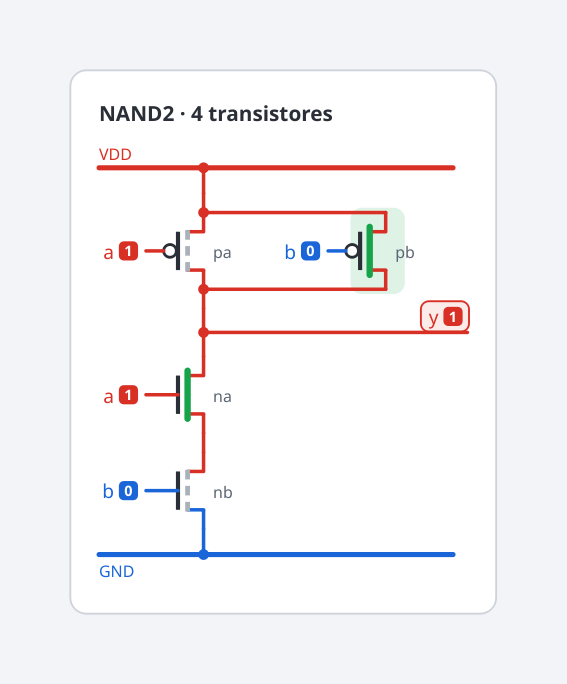
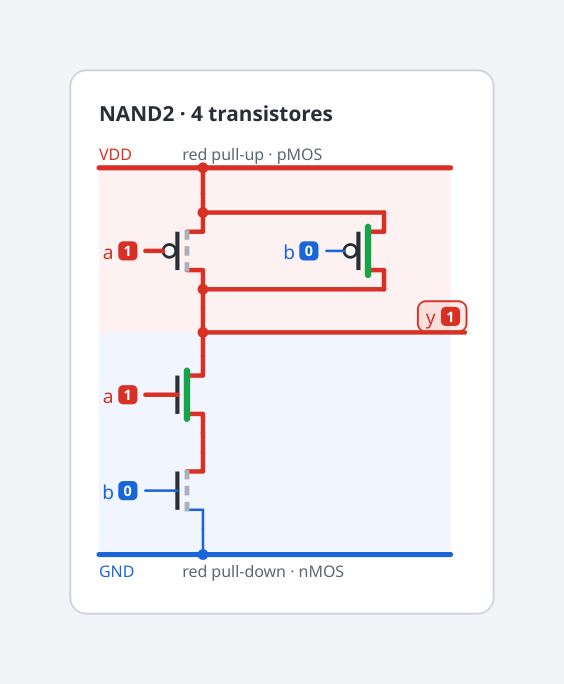
Diapositivas con las capturas nuevas y guion de la exposición (#57)
Capturas de las vistas nuevas en las diapositivas, diapositiva «Cómo se usa» y guion de la exposición en seis bloques con sus demostraciones en vivo. Cifras al día: 613 pruebas.

diff --git a/docs/exposicion/guion.md b/docs/exposicion/guion.md
@@ -1,0 +1,279 @@
+# Guion de la exposición
+
+Unos 10 minutos, seis bloques; cada expositor habla una sola vez. Las diapositivas
+son apoyo: en cada bloque, quien expone muestra en vivo cómo se usa el programa.
+
+## Orden
+
+| Bloque | Expositor | Tema | Diapositivas | Tiempo |
+|---|---|---|---|---|
+| 1 | Héctor | Introducción y cómo se usa | 1–4 | 1 min 25 s |
+| 2 | Daniel | Definiciones matemáticas | 5–8 | 1 min 45 s |
+| 3 | Jairo | Capas L0 y L1: transistores y celdas | 9–12 | 1 min 40 s |
+| 4 | Fabrizzio | Capas L2 y L3: bloques y FPU | 13–17 | 1 min 55 s |
+| 5 | Yenny | Métricas y prueba integral | 18–20 | 1 min 35 s |
+| 6 | Ronald | Casos especiales, verificación y cierre | 21–23 | 1 min 30 s |
+
+La pauta del curso pide que todo el grupo exponga, por eso Ronald tiene el bloque 6. Si
+al final no expone, Yenny dice también el bloque 6 (seguido del suyo) y responde sus
+preguntas.
+
+## Antes de exponer (5 minutos antes, en la computadora del aula)
+
+1. Abrir el programa: `uv run transim gui` (F11 lo pone en pantalla completa).
+2. En Operación, calcular 1 ÷ 3 (prepara la unidad de división, que es la más grande).
+3. Luego calcular 1 + 1. NO calcular 1.5 + 2.25 antes: si se repite la misma suma, el
+   acarreo no tiene nada que mostrar porque nada cambia.
+4. Abrir una vez Transistores (Ctrl+3) › panel ☰ › Biblioteca › XOR2, y volver a
+   Operación (Ctrl+1).
+5. Abrir las diapositivas en otra ventana; se pasa de una a otra con Alt+Tab.
+
+Si algo del programa falla en vivo: no se improvisa, se sigue con la diapositiva, que
+tiene la misma captura.
+
+## Bloque 1 · Héctor Flores · Introducción y cómo se usa · 1 min 25 s
+
+### Diapositiva 1 · Presentación
+
+Buenos días. Somos el grupo de TranSim754. Construimos una unidad de punto flotante
+IEEE 754 que no calcula con las operaciones de Python, sino con transistores nMOS y
+pMOS simulados uno por uno. Un ejemplo nos acompañará toda la exposición: 1.5 más 2.25
+da 3.75, que en 32 bits se escribe 0x40700000.
+
+### Diapositiva 2 · El reto
+
+El enunciado pedía emular al menos 100 transistores y, con ellos, sumar, restar,
+multiplicar y dividir en IEEE 754. Solo nuestra unidad de suma tiene 13 974
+transistores; la de multiplicación, 29 966; la de división, 40 048; y la máquina
+completa, unos 100 600. Hacemos las cuatro operaciones en 32 y en 16 bits.
+
+### Diapositiva 3 · Cómo se usa · *en vivo*
+
+El programa tiene cuatro pestañas, y cada una es una forma de mirar la misma FPU.
+
+> **En vivo:** Pasar por las pestañas con Ctrl+1, Ctrl+2, Ctrl+3 y Ctrl+4 mientras se dice:
+
+Operación es la FPU vista desde afuera: se escriben dos números y se calcula.
+Recorrido muestra esa misma operación paso a paso, en las etapas del hardware.
+Transistores la abre por dentro, desde el plano del chip hasta cada transistor.
+Y Programa la pone dentro de una CPU pequeña que ejecuta instrucciones.
+F1 abre una guía rápida con todos los controles.
+
+> **En vivo:** Volver a Operación con Ctrl+1.
+
+### Diapositiva 4 · Arquitectura por capas
+
+Por dentro, el sistema tiene seis capas, y cada una se construye solo con la de abajo:
+L0, el transistor; L1, las compuertas; L2, los bloques aritméticos; L3, la unidad de
+punto flotante; L4, la CPU; y L5, la interfaz. Daniel explica la matemática.
+
+## Bloque 2 · Daniel Alcantara · Definiciones matemáticas · 1 min 45 s
+
+### Diapositiva 5 · IEEE 754 binary32
+
+Un número binary32 usa 32 bits: 1 de signo, 8 de exponente y 23 de fracción. Su valor
+es menos uno elevado a s, por 1 punto f, por 2 elevado a E menos 127; ese 127 se llama
+sesgo. Por ejemplo, 1.5 es 0x3FC00000: E vale 127, así que el exponente real es 0, y
+1 punto f es 1.1 en binario. Si E vale 0, el número es cero o subnormal; si vale 255,
+es infinito o NaN.
+
+### Diapositiva 6 · La suma en cinco pasos
+
+La suma tiene cinco pasos: restar exponentes, alinear la mantisa menor, sumar,
+normalizar y redondear. Con 1.5 más 2.25: la diferencia de exponentes es 1; la mantisa
+1.1 se corre una posición y queda 0.11; sumada a 1.001 da 1.111; y 1.111 por 2 elevado
+a 1 es 3.75.
+
+### Diapositiva 7 · Redondeo y flags
+
+Al alinear se pierden bits, y el hardware guarda tres de ellos: G, R y S. Se suma 1 al
+resultado si G vale 1 y además R, S o el último bit valen 1; en un empate exacto se
+elige el vecino par. Así el error nunca pasa de medio ulp. Se calculan los cinco flags
+del estándar: operación inválida, división por cero, overflow, underflow e inexacto.
+
+### Diapositiva 8 · En el programa · *en vivo · Operación*
+
+Veamos la suma en el programa.
+
+> **En vivo:** Escribir 1.5 en a y 2.25 en b, dejar + y binary32, pulsar «Calcular en transistores».
+
+El resultado es 0x40700000, 3.75, y el programa confirma que coincide con el modelo de
+referencia, bit a bit y en los flags. Aquí abajo están los 32 bits: el exponente 128
+significa 2 elevado a 1, y la fracción 111 da 1.875; 1.875 por 2 es 3.75.
+
+> **En vivo:** Hacer clic en el bit de signo de b.
+
+Si hago clic en un bit, se invierte y la FPU recalcula: ahora b vale menos 2.25 y el
+resultado es menos 0.75.
+
+> **En vivo:** Volver a hacer clic en el mismo bit (regresa a 1.5 + 2.25). No calcular nada más.
+
+Jairo sigue con los transistores.
+
+## Bloque 3 · Jairo Huamán · Capas L0 y L1 · 1 min 40 s
+
+### Diapositiva 9 · L0: el transistor es un interruptor
+
+En L0, un nMOS conduce cuando su compuerta vale 1 y un pMOS cuando vale 0. Cada nodo
+tiene un valor, que puede ser 0, 1, X o Z, y una fuerza: la de los rieles, la de las
+entradas o la de una carga retenida. Gana la fuerza mayor, y si chocan un 0 y un 1 de
+la misma fuerza, el nodo queda en X. Para ir rápido, el motor calcula la tabla de
+verdad de cada celda una sola vez, desde sus transistores, y la reutiliza.
+
+### Diapositiva 10 · L1: compuertas CMOS
+
+Con esos interruptores se arman las compuertas. La NAND usa 4 transistores: dos pMOS
+en paralelo hacia VDD y dos nMOS en serie hacia tierra. La XOR usa 12, el flip-flop D
+22 y el sumador completo 28, con el diseño espejo.
+
+### Diapositiva 11 · De transistores a compuertas · *en vivo · Transistores › Biblioteca*
+
+> **En vivo:** Ctrl+3, panel ☰, pestaña Biblioteca, elegir XOR2.
+
+En el programa, cada celda se ve primero como compuertas. El programa las deduce de los
+transistores: nMOS en serie es un AND, en paralelo es un OR, y la salida sale negada.
+Así, la XOR resulta ser dos inversores y una compuerta AND-OR invertida. Rojo es 1 y
+azul es 0.
+
+> **En vivo:** Hacer clic en la entrada a.
+
+Si cambio una entrada, todo se recalcula y la salida cambia.
+
+### Diapositiva 12 · Esquema y silicio · *en vivo*
+
+> **En vivo:** Alt+E (vista Transistores).
+
+Esta es la misma celda en transistores: arriba la red de pMOS, abajo la de nMOS. El
+canal en verde es el que conduce.
+
+> **En vivo:** Alt+S (vista Silicio) y pasar el ratón por un transistor.
+
+Y así se fabricaría: difusión p en ocre, difusión n en verde y polisilicio en violeta
+cruzando las dos. Al pasar el ratón por un transistor se resalta en los dos dibujos. Es
+un dibujo ilustrativo, no a escala. Fabrizzio sigue con los bloques.
+
+## Bloque 4 · Fabrizzio Ancajima · Capas L2 y L3 · 1 min 55 s
+
+### Diapositiva 13 · L2: sumadores y restador
+
+En L2, el sumador ripple-carry encadena un sumador completo por bit: a 32 bits son 896
+transistores y 32 niveles de retardo. El carry-lookahead baja a 19 niveles, un 40 %
+menos, pero usa 3 526 transistores, casi cuatro veces más. Para restar se invierte b
+con XOR y se suma 1: complemento a 2.
+
+### Diapositiva 14 · L2: alinear y normalizar
+
+El desplazador barrel mueve 1, 2, 4, 8 o 16 posiciones en cada una de sus 5 etapas, y
+los bits que salen por la derecha forman el bit sticky. El contador de ceros a la
+izquierda es un árbol. Con estos dos bloques la FPU alinea y normaliza.
+
+### Diapositiva 15 · L3: la suma en transistores
+
+En L3, cada línea del código instancia un bloque: el comparador elige el mayor, el
+restador calcula la diferencia de exponentes, el desplazador alinea y el sumador opera.
+El redondeo es la etapa más cara: 3 812 transistores, el 27 % de los 13 974.
+
+### Diapositiva 16 · L3: multiplicación y división
+
+La multiplicación suma los exponentes, resta 127 y multiplica las mantisas con un
+arreglo de AND y sumadores: 29 966 transistores. La división es no restauradora, con una
+fila de suma o resta por cada bit del cociente: 40 048 transistores, casi el triple que
+la suma.
+
+### Diapositiva 17 · El plano del chip · *en vivo · Transistores › Última operación*
+
+> **En vivo:** Ctrl+3, panel ☰, pestaña Última operación (la suma de Daniel), Alt+S.
+
+Así se ve la unidad de suma completa. Cada rectángulo es un bloque y su área es
+proporcional a sus transistores: el más grande es el redondeo.
+
+> **En vivo:** Hacer clic en «Redondear y empaquetar»; luego doble clic para entrar y Retroceso para salir.
+
+Con un clic veo sus datos y con doble clic entro a sus celdas, hasta llegar al
+transistor. Yenny presenta las métricas.
+
+## Bloque 5 · Yenny Chávez · Métricas y prueba integral · 1 min 35 s
+
+### Diapositiva 18 · Métricas · *en vivo · Operación › Ciclos de reloj*
+
+Medimos tres cosas en cada bloque: transistores, profundidad y actividad. El simulador
+no tiene tiempo físico, así que los ciclos se derivan del camino crítico, y usamos como
+reloj 39 celdas, el camino crítico de la ALU entera. La suma recorre 176 celdas: 5
+ciclos; la multiplicación, 157: también 5; y la división, 852: 22 ciclos.
+
+> **En vivo:** Ctrl+1 y mostrar abajo «Ciclos de reloj»: la barra de los 5 ciclos.
+
+### Diapositiva 19 · Prueba integral · *en vivo · Recorrido*
+
+> **En vivo:** Ctrl+2. Pulsar «Siguiente» (o →) paso por paso hasta el 5.
+
+Para la prueba integral, Recorrido muestra la suma de Daniel dentro del circuito. Cada
+caja es una etapa del hardware y el panel de la derecha explica la cuenta con los bits
+de la simulación. La diferencia de exponentes vale 1, la mantisa alineada es 0.11 y la
+suma da 1.111. Al final, G, R y S valen 0, así que el resultado es exacto: 0x40700000,
+igual que el modelo de referencia.
+
+### Diapositiva 20 · El acarreo, retardo a retardo · *en vivo*
+
+> **En vivo:** En el paso 5, pulsar «Ver el acarreo ▸» y luego ⏵.
+
+Aquí está el sumador de mantisas por dentro: cada columna es un bit y cada fila un
+nivel lógico, así que la cadena de acarreo se ve como una escalera. Al reproducir,
+cada instante es un retardo de celda y se ve el acarreo avanzar de bit en bit. En el
+peor caso, la suma completa tarda 176 retardos. Ronald cierra con los casos especiales.
+
+## Bloque 6 · Ronald Ayala · Casos especiales, verificación y cierre · 1 min 30 s
+
+### Diapositiva 21 · Casos especiales · *en vivo · Operación › Ejemplos ▾*
+
+> **En vivo:** Ctrl+1, «Ejemplos ▾» y elegir «1 ÷ 3»; después «1 ÷ 0» y «0 ÷ 0».
+
+El estándar también define los casos difíciles, y el circuito los resuelve igual que el
+estándar. 1 entre 3 no tiene representación exacta: da 0.33333334 y se enciende el flag
+de inexacto. 1 entre 0 da más infinito, con el flag de división por cero. Y 0 entre 0
+da NaN, con el flag de operación inválida.
+
+> **En vivo:** Ctrl+4, «Ensamblar y reiniciar» y «Ejecutar hasta HALT» (F8).
+
+Y la misma suma corre dentro de una CPU: este programa carga 1.5 y 2.25, ejecuta FADD
+y su salida es otra vez 0x40700000.
+
+### Diapositiva 22 · Verificación y conclusiones
+
+Para saber que todo es correcto, comparamos cada resultado con un modelo de referencia
+y con NumPy, en los casos borde y en 10 000 pares al azar por operación. No hubo
+ninguna diferencia, ni en los bits ni en los flags. El proyecto tiene 613 pruebas
+automáticas que se corren cada vez que cambiamos algo.
+En conclusión: partimos de un transistor que solo es un interruptor y llegamos a una
+máquina de unos 100 600 transistores que suma, resta, multiplica y divide según IEEE
+754; cada decisión de diseño tiene un costo que se puede medir; y todo se puede ver en
+el programa, del plano del chip a cada transistor.
+
+### Diapositiva 23 · Cierre
+
+Muchas gracias por su atención. Quedamos atentos a sus preguntas.
+
+## Si el profesor pregunta
+
+Responde primero quien expuso ese tema; luego cualquiera puede completar. Si la pregunta
+es de uso, se responde mostrándolo en el programa.
+
+### Uso del programa
+
+- ¿Cómo ingreso otros números? En Operación, en decimal (−2.5, 1e-3), como fracción (1/3), inf, nan o en hexadecimal (0x3FC00000). Debajo de cada campo se ve cómo queda guardado. Enter calcula. (Héctor o Daniel)
+- ¿Se puede en 16 bits? Sí: Formato › binary16 y Calcular. (Daniel)
+- ¿Cómo veo los transistores de una etapa? En Recorrido, doble clic en la caja; o en Transistores, doble clic en el plano hasta llegar a la celda. (Jairo o Fabrizzio)
+- ¿Cómo veo qué cambió? En Transistores, Ver ▾ › mapa de actividad. (Fabrizzio)
+- ¿Cómo corro un programa propio? En Programa, se escribe o se abre un .t754, F5 ensambla, F10 avanza una instrucción y F8 corre hasta HALT. (Ronald o Yenny)
+
+### Contenido
+
+- Héctor · ¿El resultado lo calcula Python? No. El código solo coloca y conecta transistores; el resultado se lee de los nodos de salida al simular. NumPy solo se usa para comparar.
+- Daniel · ¿Por qué bastan G, R y S? S es el OR de todos los bits restantes; con los tres se sabe si lo descartado es menor, igual o mayor que medio ulp.
+- Jairo · ¿Por qué el pMOS conduce con 0? Su canal es de huecos y se forma con la compuerta en nivel bajo; el nMOS es el dual.
+- Jairo · ¿Las compuertas están dibujadas a mano? No: se deducen de los transistores de cada celda (serie = AND, paralelo = OR) y se comprueban contra la simulación.
+- Fabrizzio · ¿Qué es el sticky? El OR de todos los bits que salen al alinear; le avisa al redondeo que se perdió algo.
+- Fabrizzio · ¿El plano es un layout real? No: el área de cada bloque sale de su número de transistores. Sirve para ver qué bloque pesa más.
+- Yenny · ¿Por qué el reloj es de 39 celdas? Es el camino crítico de la ALU entera de 32 bits; así una operación entera cabe en un ciclo.
+- Yenny · ¿El acarreo se mide en tiempo real? No. El simulador calcula el estado final; la propagación se reproduce aparte con un retardo por celda y se comprueba que llega al mismo resultado que el simulador.
+- Ronald · ¿Cómo saben que el resultado es correcto? Cada operación se compara bit a bit con un modelo de referencia y con NumPy, en los casos borde y en 10 000 pares al azar, y no hubo ninguna diferencia.

diff --git a/docs/exposicion/diapositivas.md b/docs/exposicion/diapositivas.md
@@ -26,6 +26,17 @@ lang: es
 | L4 | Máquina T754: decodificador, banco de registros, control |
 | L5 | CLI `transim`, interfaz gráfica y métricas |
 
+## Cómo se usa
+
+| Pestaña | Para qué |
+|---|---|
+| **Operación** (Ctrl+1) | Escribir a y b, elegir + − × ÷ y el formato, **Calcular en transistores**. Resultado, bits y flags; un clic en un bit lo invierte. |
+| **Recorrido** (Ctrl+2) | La misma operación en las etapas del hardware; **Siguiente** (→) avanza y el panel explica cada cuenta. |
+| **Transistores** (Ctrl+3) | Del plano del chip a cada transistor: rejilla de bits, compuertas, esquema CMOS y silicio. |
+| **Programa** (Ctrl+4) | Programas `.t754` en la CPU T754: ensamblar, F10 paso a paso, F8 hasta HALT. |
+
+Se abre con `transim gui`; F1 muestra la guía rápida.
+
 ## Del transistor a la celda
 
 - **Inversor:** 1 pMOS + 1 nMOS (2 T).
@@ -54,6 +65,15 @@ lang: es
 6. Redondear al par (G, R, S) y empaquetar; elegir entre resultado numérico y
    especial (NaN, ±∞).
 
+## Recorrido paso a paso
+
+![1.5 + 2.25 en la pestaña Recorrido, paso 5: X = 01.001₂ + Y = 00.110₂ = 01.111₂; las etapas que faltan, en gris.](img/recorrido_suma.png)
+
+- Cada etapa del hardware con la cuenta hecha con los bits de la simulación:
+  d = 128 − 127 = 1, 1.10₂ >> 1 = 0.11₂, 01.001₂ + 00.110₂ = 01.111₂.
+- También la multiplicación (arreglo de AND y sumadores) y la división (divisor no
+  restaurador, un bit del cociente por fila).
+
 ## Demostración
 
 ```
@@ -69,18 +89,49 @@ $ transim calc 1.5 + 2.25 --trace
 
 ## Del chip al transistor
 
-![La unidad de suma (13 974 transistores) en silicio: cada bloque del datapath, en filas de celdas estándar.](img/chip_silicio.png)
+![Plano de la unidad de suma (13 974 transistores): cada bloque ocupa un área proporcional a sus transistores, con el color de su etapa.](img/plano_chip.png)
 
-## Celdas estándar en silicio
+- Plano ilustrativo (ADR-0017): el área sale del número de transistores, no de un
+  layout con reglas de diseño. Doble clic en un bloque para entrar.
 
-![Difusión p+ (ocre) en el pozo n, difusión n+ (verde), polisilicio (rojo), metal 1 y 2; en verde claro, los canales que conducen.](img/celdas_silicio.png)
+## Dentro de un bloque: el acarreo
 
-- El layout se genera del netlist y se verifica contra él: sin cortocircuitos ni nodos
-  abiertos (ADR-0015). Es ilustrativo: no sigue las reglas de un proceso real.
+![Sumador de mantisas en su rejilla de bits (columna = bit, fila = nivel): la escalera es la cadena de acarreo; en amarillo, las celdas que cambian en ese instante.](img/rejilla_acarreo.png)
+
+- La operación se reproduce con **un retardo por celda** y se comprueba nodo por nodo
+  contra el resultado del motor (ADR-0018).
+- 1.5 + 2.25 partiendo de 0 + 0: el sumador de mantisas termina en el retardo 24 y la
+  unidad en el 54; el peor caso (camino crítico) es 176.
+
+## De la celda a las compuertas
+
+![XOR2 con a = 1, b = 0: dos inversores y una compuerta AND-OR invertida (AOI).](img/xor2_compuertas.png)
+
+- Cada etapa CMOS se dibuja como la compuerta que implementa, deducida de su red
+  pull-down: serie = AND, paralelo = OR, salida negada (ADR-0016).
+- Se comprueba contra la simulación en todas las combinaciones de entrada.
+
+## El sumador completo por dentro
+
+![FA con a = 1, b = 0, cin = 1: dos compuertas complejas y dos inversores dan s = 0 y cout = 1.](img/fa_compuertas.png)
+
+- Es un **sumador espejo** de 28 transistores, no un XOR más un AND: la vista muestra el
+  circuito que se simula.
 
 ## Esquema CMOS de una celda
 
-![NAND2 con a = 1, b = 0: pMOS en paralelo arriba, nMOS en serie abajo; en verde, el camino que fija la salida.](img/nand2_esquema.png)
+![NAND2 con a = 1, b = 0: pMOS en paralelo en la red pull-up (fondo rojizo), nMOS en serie en la pull-down (fondo azulado). Canal continuo: conduce.](img/nand2_esquema.png)
+
+- La red pull-up lleva la salida a 1 y la pull-down a 0; nunca conducen las dos a la
+  vez.
+
+## La celda y su silicio
+
+![La misma NAND2 junto a su layout: difusión p+ en el pozo n, difusión n+, polisilicio, metal 1 y metal 2; en verde, los canales que conducen.](img/nand2_silicio.png)
+
+- El layout se genera del netlist y se verifica contra él: sin cortocircuitos ni nodos
+  abiertos (ADR-0015). Al pasar el ratón por un transistor se resalta en los dos
+  dibujos.
 
 ## El transistor por dentro
 
@@ -104,7 +155,7 @@ $ transim calc 1.5 + 2.25 --trace
 - Cada bloque se compara con un **modelo de referencia**, y este con NumPy.
 - Cuatro operaciones × dos formatos: todos los pares borde y 10 000 aleatorios.
 - **0 discrepancias** bit a bit, incluidos los cinco flags.
-- 476 pruebas automáticas rápidas en la integración continua.
+- 613 pruebas automáticas; las 596 rápidas corren en cada cambio.
 
 ## Transistores por unidad
 

diff --git a/CHANGELOG.md b/CHANGELOG.md
@@ -63,6 +63,11 @@ el proyecto sigue [Versionado Semántico](https://semver.org/lang/es/).
   MOSFET, la lógica CMOS y el estándar IEEE 754.
 
 ### Cambiado
+- Diapositivas con capturas de las vistas nuevas: Recorrido, plano del chip, rejilla del
+  acarreo, compuertas de XOR2 y FA, esquema de NAND2 con sus redes y la celda junto a su
+  silicio; se quitan las del silicio en filas.
+- Diapositiva «Cómo se usa» con las cuatro pestañas y guion de la exposición
+  (`docs/exposicion/guion.md`): seis bloques, cada uno con su demostración en vivo.
 - El chip y los bloques ya no se dibujan como filas de celdas estándar (reemplazado por el
   plano de ADR-0017).
 - Esquema de transistores más limpio: fondo de la red pull-up y de la pull-down con su
